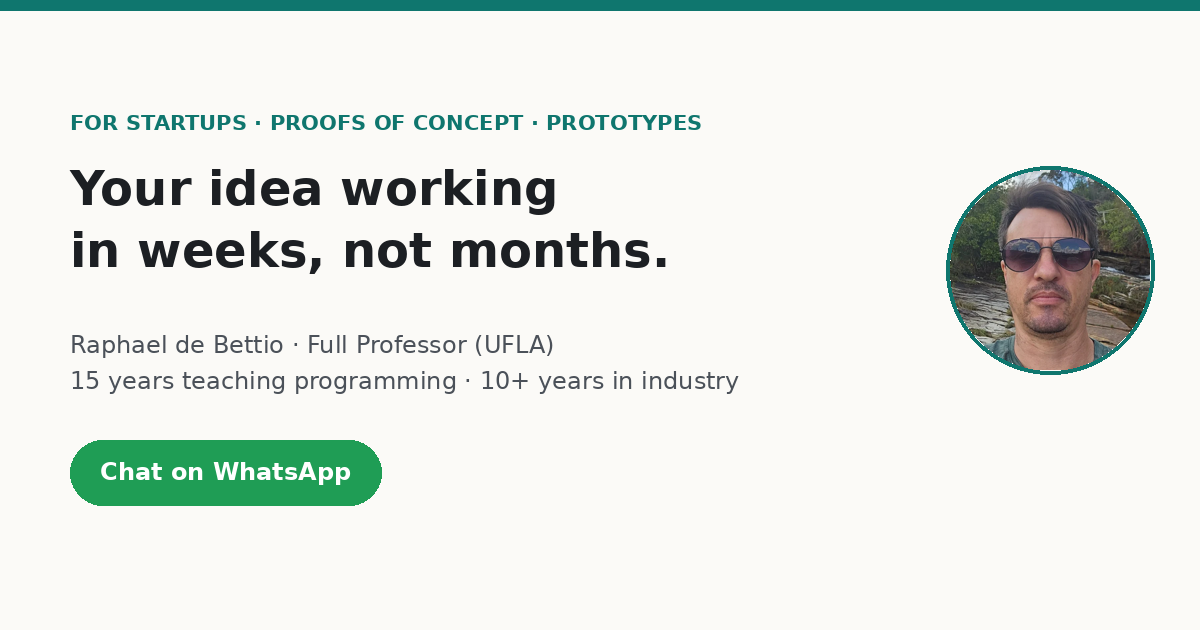
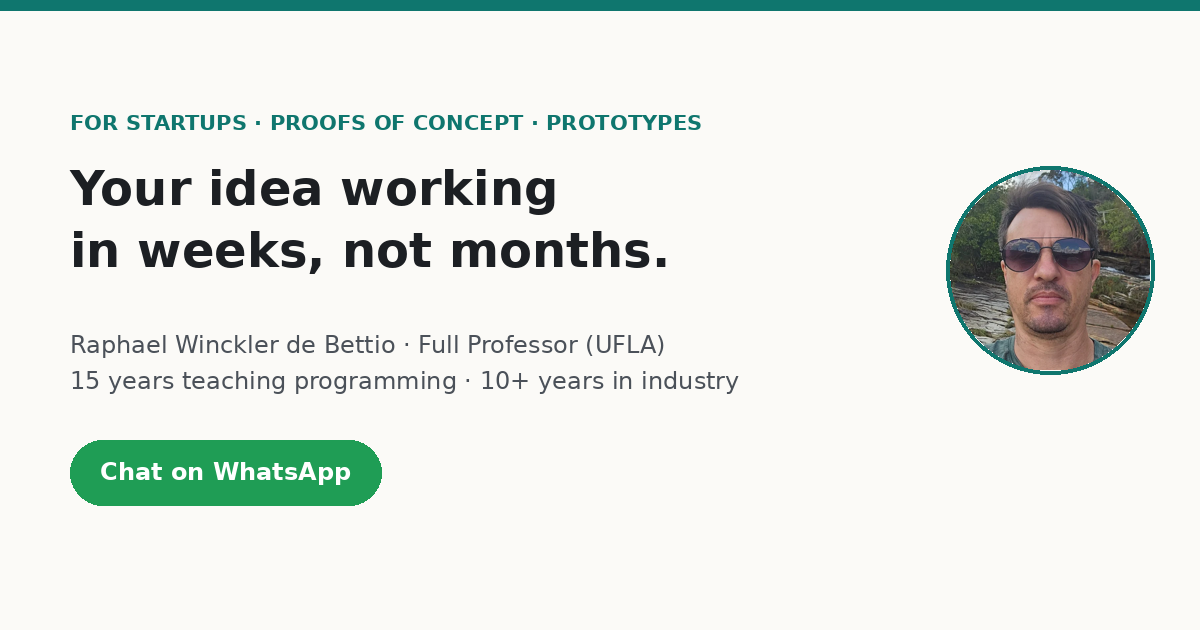
Nome completo padronizado e contador de visitas
- Títulos das abas e imagens de prévia passam a usar "Raphael
  Winckler de Bettio", como o cabeçalho.
- Inclui o GoatCounter (sem cookies) em todas as páginas; ativação
  explicada no README.

Changed region(s): [[0.1542, 0.5127, 0.555, 0.573]]

diff --git a/exemplo-edital.html b/exemplo-edital.html
@@ -3,9 +3,9 @@
 <head>
 <meta charset="utf-8">
 <meta name="viewport" content="width=device-width, initial-scale=1">
-<title>Exemplo de documento técnico para edital (versão resumida) — Raphael de Bettio</title>
+<title>Exemplo de documento técnico para edital (versão resumida) — Raphael Winckler de Bettio</title>
 <meta name="description" content="Versão resumida de uma proposta real de P&D para edital de fomento, elaborada a partir de uma prova de conceito.">
-<meta property="og:title" content="Exemplo de documento técnico para edital — Raphael de Bettio">
+<meta property="og:title" content="Exemplo de documento técnico para edital — Raphael Winckler de Bettio">
 <meta property="og:description" content="Sua ideia funcionando em semanas, para validar, testar ou captar recursos.">
 <meta property="og:type" content="website">
 <link rel="canonical" href="https://raphaelwb.github.io/exemplo-edital.html">
@@ -19,6 +19,8 @@
 <link rel="alternate" hreflang="pt-BR" href="https://raphaelwb.github.io/exemplo-edital.html">
 <link rel="alternate" hreflang="en" href="https://raphaelwb.github.io/en/exemplo-edital.html">
 <link rel="stylesheet" href="style.css">
+<!-- Contador de visitas (GoatCounter: gratuito, sem cookies). Conta: https://raphaelwb.goatcounter.com -->
+<script data-goatcounter="https://raphaelwb.goatcounter.com/count" async src="https://gc.zgo.at/count.js"></script>
 </head>
 <body>
 

diff --git a/index.html b/index.html
@@ -3,9 +3,9 @@
 <head>
 <meta charset="utf-8">
 <meta name="viewport" content="width=device-width, initial-scale=1">
-<title>Raphael de Bettio — Provas de Conceito e Protótipos</title>
+<title>Raphael Winckler de Bettio — Provas de Conceito e Protótipos</title>
 <meta name="description" content="Provas de conceito e protótipos para startups e empresas validarem ideias, testarem com usuários ou captarem recursos — em semanas, com escopo fechado.">
-<meta property="og:title" content="Raphael de Bettio — Provas de Conceito e Protótipos">
+<meta property="og:title" content="Raphael Winckler de Bettio — Provas de Conceito e Protótipos">
 <meta property="og:description" content="Sua ideia funcionando em semanas, para validar, testar ou captar recursos.">
 <meta property="og:type" content="website">
 <link rel="canonical" href="https://raphaelwb.github.io/">
@@ -19,6 +19,8 @@
 <link rel="alternate" hreflang="pt-BR" href="https://raphaelwb.github.io/">
 <link rel="alternate" hreflang="en" href="https://raphaelwb.github.io/en/">
 <link rel="stylesheet" href="style.css">
+<!-- Contador de visitas (GoatCounter: gratuito, sem cookies). Conta: https://raphaelwb.goatcounter.com -->
+<script data-goatcounter="https://raphaelwb.goatcounter.com/count" async src="https://gc.zgo.at/count.js"></script>
 </head>
 <body>
 

diff --git a/en/exemplo-edital.html b/en/exemplo-edital.html
@@ -3,9 +3,9 @@
 <head>
 <meta charset="utf-8">
 <meta name="viewport" content="width=device-width, initial-scale=1">
-<title>Example funding document (condensed version) — Raphael de Bettio</title>
+<title>Example funding document (condensed version) — Raphael Winckler de Bettio</title>
 <meta name="description" content="Condensed version of a real R&D proposal for a funding call, built on a proof of concept.">
-<meta property="og:title" content="Example funding document — Raphael de Bettio">
+<meta property="og:title" content="Example funding document — Raphael Winckler de Bettio">
 <meta property="og:description" content="Your idea working in weeks — to validate, test or raise funding.">
 <meta property="og:type" content="website">
 <link rel="canonical" href="https://raphaelwb.github.io/en/exemplo-edital.html">
@@ -19,6 +19,8 @@
 <link rel="alternate" hreflang="pt-BR" href="https://raphaelwb.github.io/exemplo-edital.html">
 <link rel="alternate" hreflang="en" href="https://raphaelwb.github.io/en/exemplo-edital.html">
 <link rel="stylesheet" href="../style.css">
+<!-- Contador de visitas (GoatCounter: gratuito, sem cookies). Conta: https://raphaelwb.goatcounter.com -->
+<script data-goatcounter="https://raphaelwb.goatcounter.com/count" async src="https://gc.zgo.at/count.js"></script>
 </head>
 <body>
 

diff --git a/en/index.html b/en/index.html
@@ -3,9 +3,9 @@
 <head>
 <meta charset="utf-8">
 <meta name="viewport" content="width=device-width, initial-scale=1">
-<title>Raphael de Bettio — Proofs of Concept and Prototypes</title>
+<title>Raphael Winckler de Bettio — Proofs of Concept and Prototypes</title>
 <meta name="description" content="Proofs of concept and prototypes for startups and companies to validate ideas, test with users or raise funding — in weeks, with a fixed scope.">
-<meta property="og:title" content="Raphael de Bettio — Proofs of Concept and Prototypes">
+<meta property="og:title" content="Raphael Winckler de Bettio — Proofs of Concept and Prototypes">
 <meta property="og:description" content="Your idea working in weeks — to validate, test or raise funding.">
 <meta property="og:type" content="website">
 <link rel="canonical" href="https://raphaelwb.github.io/en/">
@@ -19,6 +19,8 @@
 <link rel="alternate" hreflang="pt-BR" href="https://raphaelwb.github.io/">
 <link rel="alternate" hreflang="en" href="https://raphaelwb.github.io/en/">
 <link rel="stylesheet" href="../style.css">
+<!-- Contador de visitas (GoatCounter: gratuito, sem cookies). Conta: https://raphaelwb.goatcounter.com -->
+<script data-goatcounter="https://raphaelwb.goatcounter.com/count" async src="https://gc.zgo.at/count.js"></script>
 </head>
 <body>
 

diff --git a/portfolio.html b/portfolio.html
@@ -3,9 +3,9 @@
 <head>
 <meta charset="utf-8">
 <meta name="viewport" content="width=device-width, initial-scale=1">
-<title>Portfólio — Raphael de Bettio</title>
+<title>Portfólio — Raphael Winckler de Bettio</title>
 <meta name="description" content="Sistemas que projetei e construí: telas e diagramas de funcionamento.">
-<meta property="og:title" content="Portfólio — Raphael de Bettio">
+<meta property="og:title" content="Portfólio — Raphael Winckler de Bettio">
 <meta property="og:description" content="Sua ideia funcionando em semanas, para validar, testar ou captar recursos.">
 <meta property="og:type" content="website">
 <link rel="canonical" href="https://raphaelwb.github.io/portfolio.html">
@@ -19,6 +19,8 @@
 <link rel="alternate" hreflang="pt-BR" href="https://raphaelwb.github.io/portfolio.html">
 <link rel="alternate" hreflang="en" href="https://raphaelwb.github.io/en/portfolio.html">
 <link rel="stylesheet" href="style.css">
+<!-- Contador de visitas (GoatCounter: gratuito, sem cookies). Conta: https://raphaelwb.goatcounter.com -->
+<script data-goatcounter="https://raphaelwb.goatcounter.com/count" async src="https://gc.zgo.at/count.js"></script>
 </head>
 <body>
 

diff --git a/en/portfolio.html b/en/portfolio.html
@@ -3,9 +3,9 @@
 <head>
 <meta charset="utf-8">
 <meta name="viewport" content="width=device-width, initial-scale=1">
-<title>Portfolio — Raphael de Bettio</title>
+<title>Portfolio — Raphael Winckler de Bettio</title>
 <meta name="description" content="Systems I have designed and built: screens and how-it-works diagrams.">
-<meta property="og:title" content="Portfolio — Raphael de Bettio">
+<meta property="og:title" content="Portfolio — Raphael Winckler de Bettio">
 <meta property="og:description" content="Your idea working in weeks — to validate, test or raise funding.">
 <meta property="og:type" content="website">
 <link rel="canonical" href="https://raphaelwb.github.io/en/portfolio.html">
@@ -19,6 +19,8 @@
 <link rel="alternate" hreflang="pt-BR" href="https://raphaelwb.github.io/portfolio.html">
 <link rel="alternate" hreflang="en" href="https://raphaelwb.github.io/en/portfolio.html">
 <link rel="stylesheet" href="../style.css">
+<!-- Contador de visitas (GoatCounter: gratuito, sem cookies). Conta: https://raphaelwb.goatcounter.com -->
+<script data-goatcounter="https://raphaelwb.goatcounter.com/count" async src="https://gc.zgo.at/count.js"></script>
 </head>
 <body>
 

diff --git a/README.md b/README.md
@@ -38,3 +38,10 @@ Abrir http://localhost:8000
 ## Casos
 
 Há uma seção `#casos` comentada no HTML, pronta para receber os primeiros casos.
+
+## Contador de visitas
+
+As páginas carregam o GoatCounter (gratuito, sem cookies, não exige aviso de cookies).
+Para ativar, crie a conta em https://www.goatcounter.com/signup usando o código **raphaelwb**
+(o painel fica em https://raphaelwb.goatcounter.com). Se escolher outro código, troque
+`raphaelwb.goatcounter.com` no `<head>` das seis páginas.
